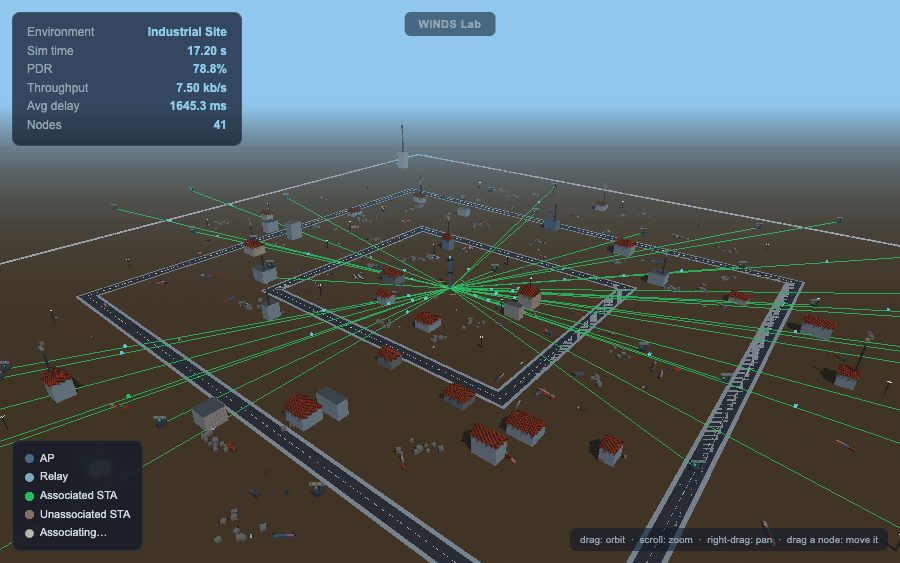
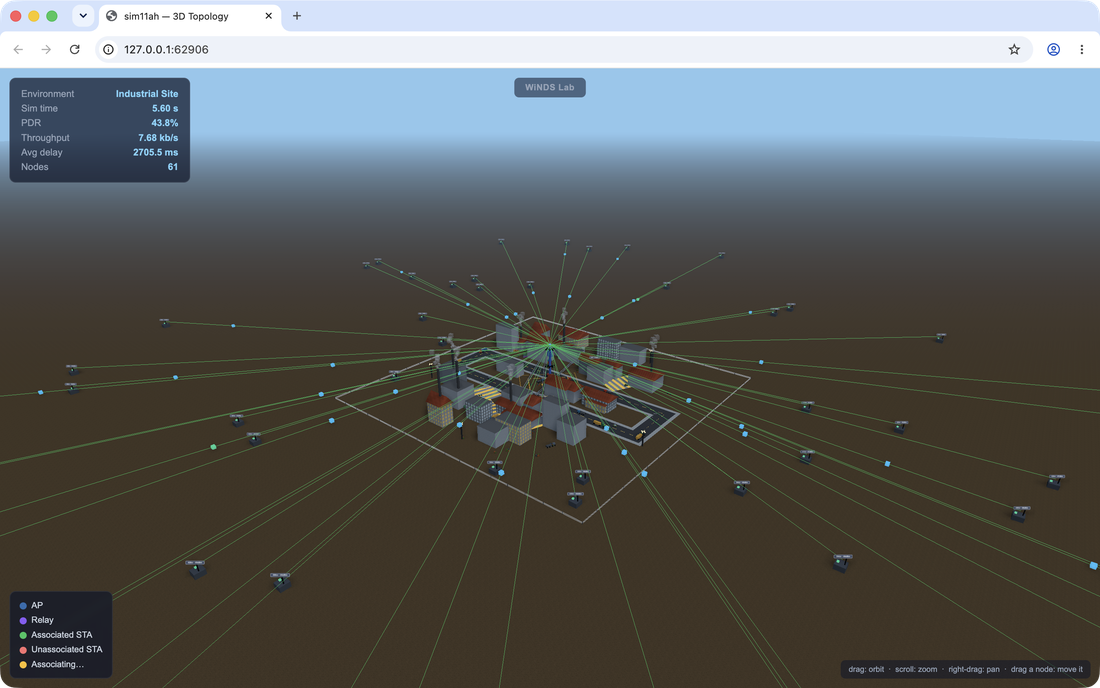
Improve 3D scene rendering quality; regenerate deployment screenshots
ui/web3d/static/js/scene.js: enabled antialiasing (was off -- every
block/roof edge was visibly jagged), switched shadows from BasicShadowMap
to PCFSoftShadowMap (soft edges instead of hard-pixelated), and added a
small-kernel SSAO pass (EffectComposer + SSAOPass + OutputPass) for
contact shadows where objects actually touch the ground. Deliberately did
NOT add bloom or switch to PBR materials -- the file's own header comment
states "Blocky-game look: flat sky, no atmospheric scattering, no
bloom/PBR gloss" as an intentional design choice; these changes stay
inside that aesthetic rather than fighting it.

Verified in a real browser (isolated Chrome profile, captured by Quartz
window ID rather than screen region -- see the note on how the first
capture attempt went wrong) before regenerating the README's Deployment
Scenarios gallery: 11 of 13 screenshots (all procedural environment/
variant combinations) recaptured from the improved renderer via the new
scripts/_launch_3d_scene.py, resized from full 2800x1752 browser captures
down to 1100px wide (35MB -> 11MB total; the gallery only displays them
at 260px). The remaining 2 (UAV Cinematic Tour, ISM Real-Map Digital
Twin) are left as-is: the former isn't a distinct data scenario (just a
camera path on the same Smart City data), and the latter renders through
a separate MapLibre page this change didn't touch.

Also noted, not fixed (pre-existing, out of scope here): Paddy Field's
[…]

diff --git a/ui/web3d/static/js/scene.js b/ui/web3d/static/js/scene.js
@@ -4,14 +4,28 @@
 // nearest-filtered pixel-art blocks.
 import * as THREE from 'three';
 import { OrbitControls } from 'three/addons/controls/OrbitControls.js';
+import { EffectComposer } from 'three/addons/postprocessing/EffectComposer.js';
+import { RenderPass } from 'three/addons/postprocessing/RenderPass.js';
+import { SSAOPass } from 'three/addons/postprocessing/SSAOPass.js';
+import { OutputPass } from 'three/addons/postprocessing/OutputPass.js';
 import { SKY_COLOR, tiledClone } from './core.js';
 import { TEX } from './textures.js';
 
 const canvas = document.getElementById('app-canvas');
-export const renderer = new THREE.WebGLRenderer({ canvas, antialias: false });
+// antialias:true smooths block silhouette edges (a geometry-edge fix, not
+// a lighting/material change) -- previously off, and every screenshot of
+// this scene showed visibly jagged block/roof edges as a result.
+export const renderer = new THREE.WebGLRenderer({ canvas, antialias: true });
 renderer.setPixelRatio(Math.min(window.devicePixelRatio, 2));
 renderer.shadowMap.enabled = true;
-renderer.shadowMap.type = THREE.BasicShadowMap;
+// PCFSoftShadowMap softens shadow EDGES only -- materials stay flat
+// Lambert, no PBR/bloom added, so this stays inside the "blocky-game
+// look" above. BasicShadowMap's hard-edged, slightly aliased shadow
+// boundary was the single most obviously "unpolished" thing in every
+// screenshot of this scene; Minecraft's own default shadows are soft-
+// edged too, so this isn't fighting the voxel aesthetic, just cleaning
+// up an artifact of the cheapest shadow-map filter.
+renderer.shadowMap.type = THREE.PCFSoftShadowMap;
 renderer.outputColorSpace = THREE.SRGBColorSpace;
 renderer.toneMapping = THREE.NoToneMapping;
 
@@ -53,11 +67,36 @@ controls.minDistance = 20;
 controls.maxDistance = 6500;
 controls.target.set(0, 15, 0);
 
+// Contact-shadow-only SSAO: small kernel radius so it darkens the seams
+// where blocks actually touch (ground/building corners, prop clusters)
+// rather than producing the big soft grey halos a large-radius AO pass
+// casts around every object -- that broad-halo look reads as hazy/washed
+// out against flat Lambert materials and would fight the "blocky-game
+// look" this scene deliberately keeps (see the top-of-file comment).
+// Materials, lighting model and tone mapping are untouched; this only
+// adds a multiplicative darkening term in the few pixels where geometry
+// actually occludes itself.
+export const composer = new EffectComposer(renderer);
+composer.addPass(new RenderPass(scene, camera));
+const ssaoPass = new SSAOPass(scene, camera, window.innerWidth, window.innerHeight);
+ssaoPass.kernelRadius = 6;
+ssaoPass.minDistance = 0.0005;
+ssaoPass.maxDistance = 0.03;
+composer.addPass(ssaoPass);
+// Must be the last pass -- EffectComposer's intermediate render targets
+// don't apply the renderer's own sRGB output conversion automatically;
+// without this the composited frame comes out visibly washed out
+// relative to a plain renderer.render() call using the same
+// outputColorSpace setting above.
+composer.addPass(new OutputPass());
+
 export function resize() {
   const w = window.innerWidth, h = window.innerHeight;
   camera.aspect = w / h;
   camera.updateProjectionMatrix();
   renderer.setSize(w, h);
+  composer.setSize(w, h);
+  ssaoPass.setSize(w, h);
 }
 window.addEventListener('resize', resize);
 

diff --git a/ui/web3d/static/app.js b/ui/web3d/static/app.js
@@ -6,7 +6,7 @@
 // props), entities.js (nodes/links/packets/vehicles), smoke.js, hud.js.
 import { POLL_MS } from './js/core.js';
 import { loadAllTextures } from './js/textures.js';
-import { scene, camera, renderer, controls, resize, applyEnvironment } from './js/scene.js';
+import { camera, composer, controls, resize, applyEnvironment } from './js/scene.js';
 import {
   rebuildProps, rebuildBuildings, rebuildRoads,
   industrialRoadLoops, rebuildIndustrialTraffic, stepIndustrialTraffic,
@@ -111,7 +111,7 @@ function animate() {
   stepIndustrialTraffic(latestSimTime);
   stepMilitaryPatrol(latestSimTime, dt);
   controls.update();
-  renderer.render(scene, camera);
+  composer.render();
 }
 
 async function main() {

diff --git a/scripts/_launch_3d_scene.py b/scripts/_launch_3d_scene.py
@@ -1,0 +1,49 @@
+"""
+One-off utility: launch the dashboard headless (Tk window withdrawn) with
+the 3D web server running, set to a specific environment/layout variant,
+so an external script can open it in an isolated browser profile and
+screenshot the real render. Not part of the app; used to regenerate the
+README's Deployment Scenarios gallery after a graphics change.
+
+Usage: python3 scripts/_launch_3d_scene.py <environment> <variant>
+Writes the server URL to /tmp/_web3d_url.txt once ready.
+"""
+import sys
+import os
+
+sys.path.insert(0, os.path.join(os.path.dirname(__file__)))
+from main_gui import build_sim
+from ui.dashboard_tk import Dashboard
+from ui.web3d.server import Web3DServer
+
+ENVIRONMENT = sys.argv[1]
+VARIANT = int(sys.argv[2])
+URL_FILE = "/tmp/_web3d_url.txt"
+
+initial = {"num_stas": 60, "seed": 3, "traffic": "periodic", "raw_enable": True,
+           "raw_policy": "cluster_adaptive", "packet_size": 128, "packet_interval": 5.0,
+           "topology": "star", "num_relays": 2, "freq_mhz": 915.0}
+sim = build_sim(num_stas=60, seed=3, traffic="periodic", raw_enable=True,
+                 topology="star", num_relays=2)
+app = Dashboard(sim=sim, sim_builder=build_sim, initial_settings=initial)
+app.withdraw()
+app._net_canvas.environment = ENVIRONMENT
+app._net_canvas.set_layout_variant(VARIANT)
+
+try:
+    os.remove(URL_FILE)
+except OSError:
+    pass
+
+server = Web3DServer(app)
+server.start()
+with open(URL_FILE, "w") as f:
+    f.write(server.url)
+
+
+def _boot():
+    app.start()
+
+
+app.after(200, _boot)
+app.mainloop()
